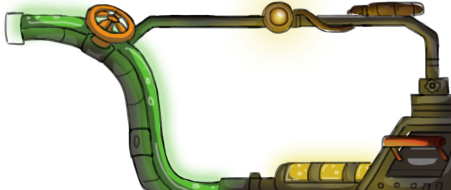
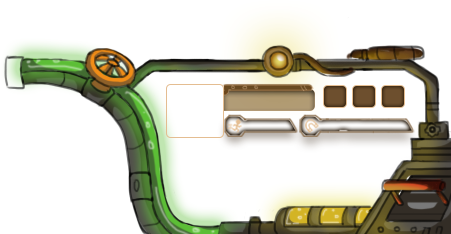
feat: add alieninfo area and update some image

diff --git a/src/layout/style.scss b/src/layout/style.scss
@@ -1,3 +1,5 @@
+@import '../styles/common.scss';
+
 .bottom_left {
     img {
         position: absolute;
@@ -11,5 +13,124 @@
         position: absolute;
         bottom: 0px;
         right: 0px;
+    }
+}
+
+
+.alien-info {
+    position: absolute;
+    padding: 10px;
+    left: 904px;
+    right: 0px;
+    top: 648px;
+    height: 130px;
+    width: 250px;
+    z-index: 999;
+    color: #deb98e;// $fontcolor;
+    font-size: 12px;
+    // background-color:rgba(173, 173, 173, 0.345);
+    background-color: rgba(255, 255, 255, 0);
+}
+
+.alien-info .alien-basic {
+    height: 60px;
+
+    .alien-basic-info {
+        width: 260px;
+        padding-top: 8px;
+
+
+
+        font-size: 18px;
+
+        p {
+            margin-left: 70px;
+            font-weight: bold;
+        }
+
+        .skill {
+            padding-right: 24px;
+
+            // display:inline;
+            ul {
+
+                margin-top: -44px;
+                float: right;
+
+                li {
+                    text-align: center;
+                    width: 20px;
+                    height: 20px;
+                    margin-left: 9px;
+                    background-color: bisque;
+                    display: inline-block
+                }
+            }
+        }
+    }
+}
+
+.alien-info .alien-basic-avator {
+    margin-top: 8px;
+    float: left;
+    height: 50px;
+    width: 50px;
+
+}
+
+.alien-info img {
+
+    height: 50px;
+    width: 50px;
+}
+
+.alien-info div.right {
+    display: inline-block;
+    margin-left: 30px;
+    margin-top: -14px;
+    width: 150px;
+    font-weight: bold;
+    float: right;
+    color: $alieninfo_blue;
+    -webkit-transform: scale(0.8);
+
+    // font-weight: bold;
+    .speed {
+        margin-left: 0px;
+        float: left;
+    }
+
+    .strack {
+        float: right;
+        padding-left: 60px;
+    }
+
+    // border:1px solid gray;
+}
+
+
+.summary {
+    padding-top: 2px;
+    margin-left: -10px;
+    font-weight: bold;
+    width: 250px;
+    -webkit-transform: scale(0.8); //小于浏览器最小支持字体，使用css缩放
+
+    .more {
+        margin-top: 15px;
+        font-size: 14px;
+        color: $alieninfo_blue;
+        margin-left: 15px;
+        font-weight: bold;
+        width: 70px;
+        vertical-align: middle;
+        height: 22px;
+        border: 3px solid $alieninfo_blue;
+        border-radius: 5px;
+        background-color: rgba(255, 255, 255, 0);
+
+        p {
+            margin-top: -3px;
+        }
     }
 }

diff --git a/src/layout/RightPanel.tsx b/src/layout/RightPanel.tsx
@@ -23,13 +23,26 @@ function AlienInfo() {
       <div className="alien-basic-avator">
         <img src={alien}></img>
       </div>
+      <div className="alien-basic-info">
+          <p>Gru02</p> 
+          <div className='skill'>
+            <ul>
+              <li>1</li>
+              <li>2</li>
+              <li>3</li>
+            </ul>
+          </div>
+        </div>
       <div className="right">
-        <div> Speed: 200</div>
-        <div> Attracted by: night view</div>
+        <div className='speed'>200</div>
+        <div className='strack'>Night view</div>
       </div>
     </div>
+    <div className='summary'>
     <div> Gru02 from planet 0x3245 is about to arrive Z-city within arount 20 minutes </div>
-    <div> Gru02 carries plenty of native rocks from planet 0x3245 which is the receipt of dye [#dye2] [#dye3]</div>
+    {/* <div> Gru02 carries plenty of native rocks from planet 0x3245 which is the receipt of dye [#dye2] [#dye3]</div> */}
+    <button className='more'><p>MORE</p></button>
+    </div>
   </div>);
 }
 
@@ -37,20 +50,20 @@ export function RightPanel() {
   const panel = useAppSelector(selectPanel);
   return (
     <>
-    { panel == "home" && <HomePanel key="home-panel" ></HomePanel>}
-    { panel == "world" && <WorldPanel></WorldPanel>}
-    { panel == "vote" && <VotePanel></VotePanel>}
-    { panel == "market" && <MarketPanel></MarketPanel>}
-    <Events></Events>
-    <div className="alien-info">
-      <AlienInfo></AlienInfo>
-    </div>
-    <div className='bottom_left'>
-      <img src={btm_left}></img>
-    </div>
-    <div className='bottom_right'>
-      <img src={btm_right}></img>
-    </div>
+      {panel == "home" && <HomePanel key="home-panel" ></HomePanel>}
+      {panel == "world" && <WorldPanel></WorldPanel>}
+      {panel == "vote" && <VotePanel></VotePanel>}
+      {panel == "market" && <MarketPanel></MarketPanel>}
+      <Events></Events>
+      <div className="alien-info">
+        <AlienInfo></AlienInfo>
+      </div>
+      <div className='bottom_left'>
+        <img src={btm_left}></img>
+      </div>
+      <div className='bottom_right'>
+        <img src={btm_right}></img>
+      </div>
     </>
   );
 }

diff --git a/src/components/Component.scss b/src/components/Component.scss
@@ -92,44 +92,6 @@ div.application {
 
 
 
-.alien-info {
-    position:absolute;
-    padding:10px;
-    top:648px;
-    // height:200px;
-    height: 150px;
-    left:880px;
-    right:0px;
-    color: white;
-    font-size:12px;
-    background-color:#333;
-}
-
-.alien-info .alien-basic {
-    height:60px;
-}
-
-.alien-info .alien-basic-avator {
-    float:left;
-    height:50px;
-    width:50px;
-    border:1px solid gray;
-}
-
-.alien-info img {
-    height:50px;
-    width: 50px;
-}
-
-.alien-info div.right {
-    width:220px;
-    float:right;
-    margin-left:5px;
-    border:1px solid gray;
-}
-
-
-
 
 
 

diff --git a/src/styles/common.scss b/src/styles/common.scss
@@ -1,1 +1,2 @@
 $fontcolor : #c3b078;
+$alieninfo_blue : #35ceb2; 
